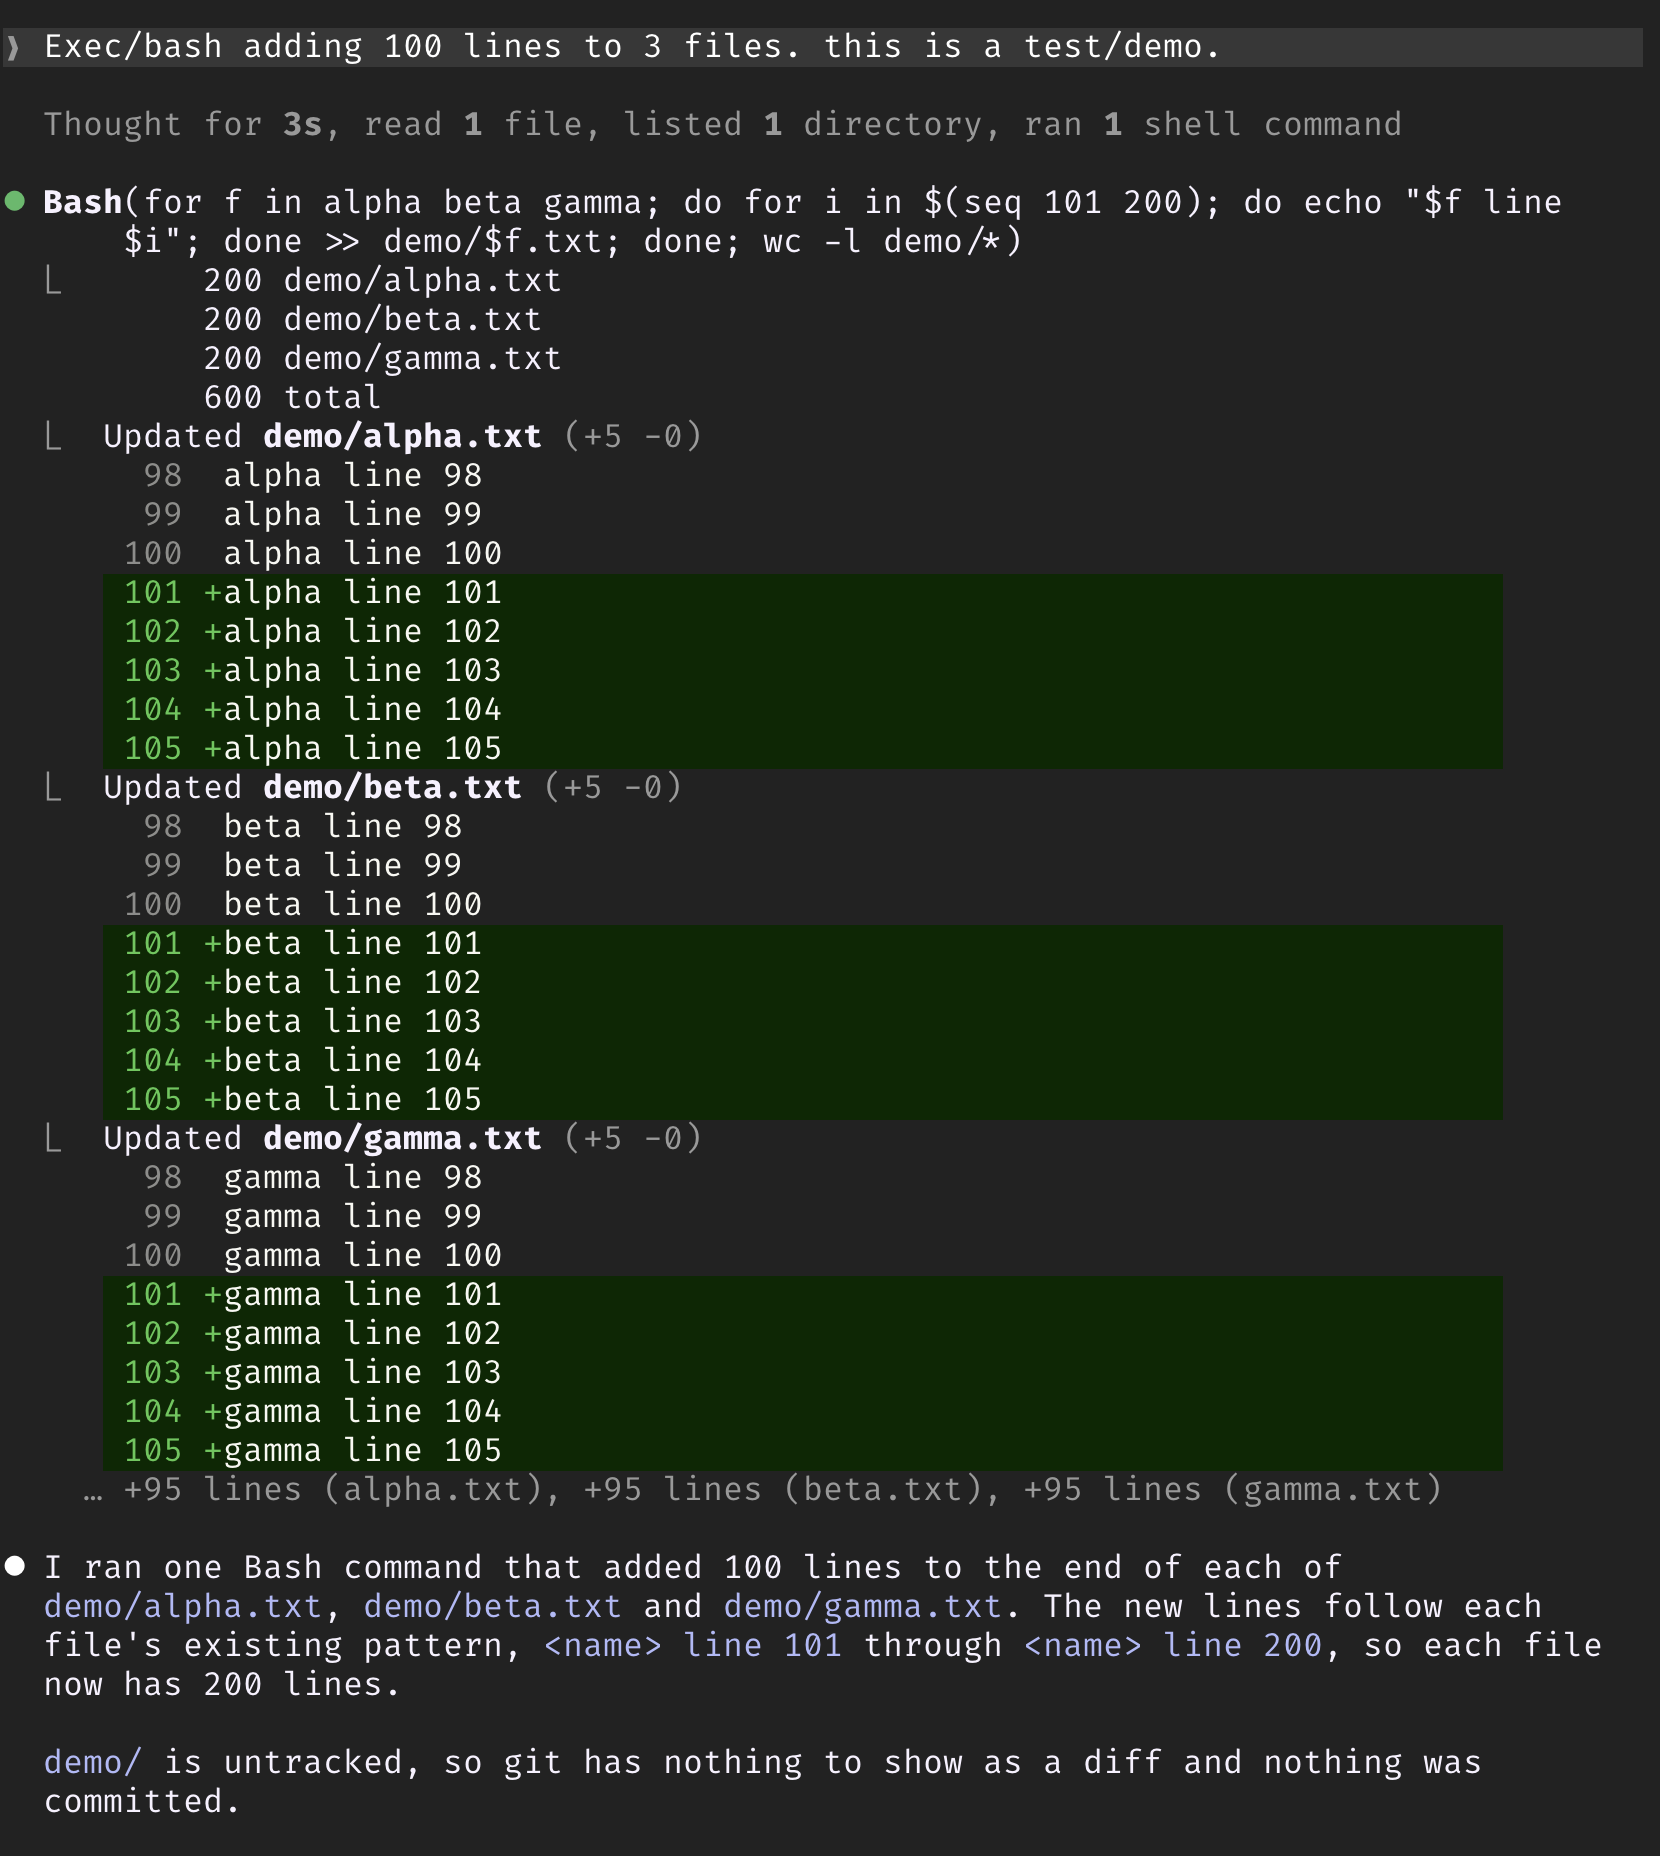
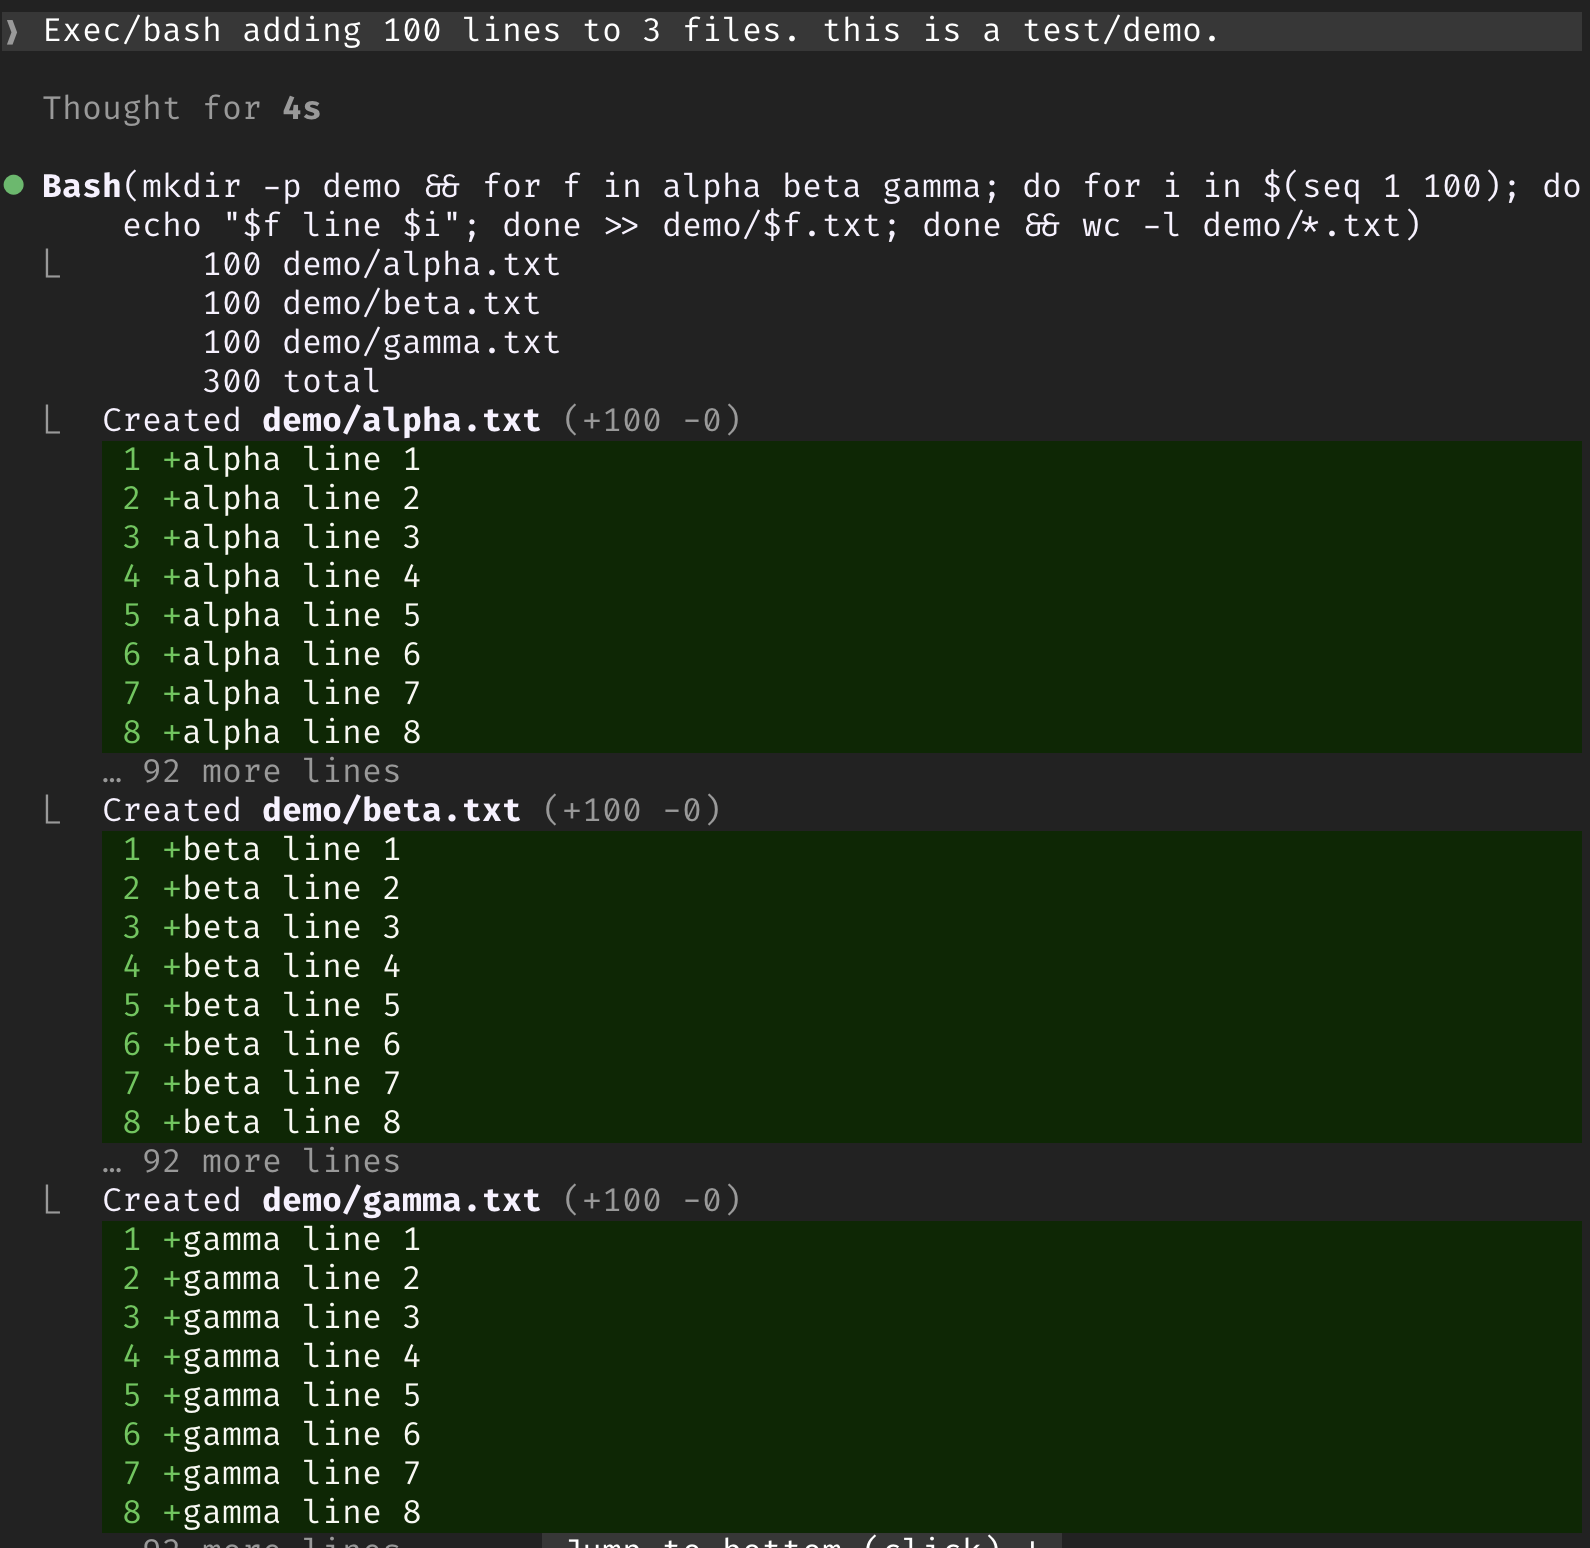
README: before/after screenshots of the same command on 0.2.1

diff --git a/README.md b/README.md
@@ -16,12 +16,15 @@ This mod draws the first 8 diff lines of each file instead, with the file's full
 
 <table>
   <tr>
-    <th>Without the mod: one command creating three 100-line files</th>
-    <th>With the mod: one command adding 100 lines to each</th>
+    <th>Without the mod</th>
+    <th>With the mod</th>
   </tr>
   <tr>
-    <td valign="top"><img src="docs/before.png" alt="A Bash call drawing 40 lines of each of three new files, then '… 60 more lines' under each" width="400"></td>
-    <td valign="top"><img src="docs/after.png" alt="A Bash call drawing 8 diff lines for each of three files, then one dim line: '… +95 lines (alpha.txt), +95 lines (beta.txt), +95 lines (gamma.txt)'" width="400"></td>
+    <td valign="top"><img src="docs/before.png" alt="A Bash call creating three 100-line files: the first file's diff alone fills the screen, 40 lines before '… 60 more lines'" width="400"></td>
+    <td valign="top"><img src="docs/after.png" alt="The same Bash call with the mod: each file shows 'Created demo/alpha.txt (+100 -0)', its first 8 lines, then '… 92 more lines'" width="400"></td>
+  </tr>
+  <tr>
+    <td colspan="2">The same command, creating three 100-line files.</td>
   </tr>
 </table>
 
